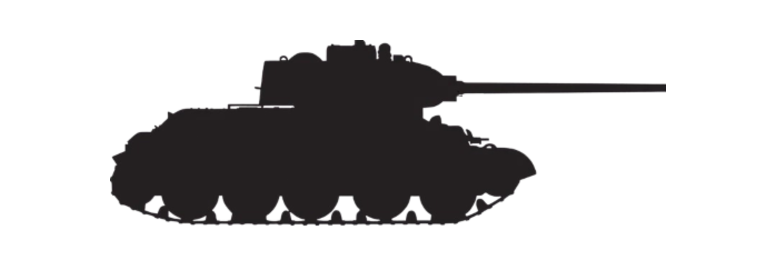
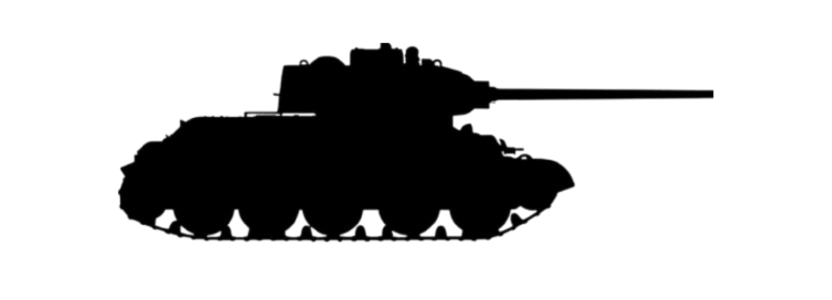
feat - Interface primaria completa, restara apenas incluir os textos verdadeiros substituindo o lorem-ipsum. Também foi adicionado mais classe no style.css

Changed region(s): [[0.1237, 0.1429, 0.866, 0.8]]

diff --git a/style.css b/style.css
@@ -6,6 +6,7 @@
     /* Cores de Fundo (Mapas) */
     --fundo-base: #858B74;
     --fundo-base-marrom: #514029;
+    --verde-caqui-escuro: #6D735D;
 
     
     /* Painéis e Elementos Metálicos */
@@ -31,7 +32,7 @@
 }
 
 body{
-    background-image: url("WT\ -\ Artes/WT\ - BG/BG3.png");
+    background-image: url("WT - Artes/WT - BG/BG3.png");
     font-family: "Arial",sans-serif;
 
     display:flex;
@@ -40,6 +41,7 @@ body{
     align-items: center; /* Centraliza a logo e o painel no meio da tela */
 
     padding: 50px;
+
 }
 
 /*==================================================
@@ -65,7 +67,7 @@ body{
 
 .logo-img{
     width: 100%; /*A principio ela ocupa todo o espaço disponivel*/
-    max-width: 200px; /*Trava de segurança para altura, para que não passe deste valor*/ 
+    max-width: 500px; /*Trava de segurança para altura, para que não passe deste valor*/ 
     height:auto; /*Isso mantem a imagem proporcional*/
 }
 
@@ -73,7 +75,7 @@ body{
     position: relative;
     
     /* Criando o efeito de metal com um gradiente linear */
-    background: linear-gradient(135deg, var(--metal-cinza-claro), var(--metal-cinza-escuro));
+    background: linear-gradient(180deg, var(--metal-cinza-claro), var(--metal-cinza-escuro));
     
     padding: 15px 40px;
     border-radius: 8px; /* Cantos levemente arredondados */
@@ -94,7 +96,7 @@ body{
    ================================================== */
 
 .main-panel{
-    background-color: var(--fundo-base-marrom);
+    background-color: var(--metal-chumbo);
     border-radius: 15px;
     padding: 40px;
 
@@ -147,5 +149,179 @@ line-height: 1.6;
 margin-bottom: 15px;
 
 text-align: justify;
+text-indent: 30px;
 
+}
+
+/* ==================================================
+   6. SEÇÃO DE CARTAS (Nações)
+   ================================================== */
+
+.tank-section{
+    margin-top: 30px;
+    
+}
+
+/* Classe utilitária: aproveita o estilo do .section-subtitle, 
+   mas força a centralização para este título específico */
+.center-text{
+    text-align: center;
+    margin-bottom: 25px;
+}
+
+.cards-container{
+    display: flex; /*Transforma as caixas em uma linha flexivel*/
+    justify-content: space-between; /*Distribui o espaço vazio entre as cartas*/
+    gap: 20px; /*Deixa um vão de 20px entre as cartas.*/
+
+}
+
+.nation-card{
+    /* O flex: 1 faz com que as 3 cartas dividam o espaço igualmente (33.3% cada) */
+    flex: 1;
+ 
+    border: 3px solid var(--metal-cinza-claro);
+    border-radius: 8px;
+
+    padding: 15px;
+    min-height: 280px; /* Uma altura temporária apenas para você enxergar as caixas */
+
+    /* Efeito de sombra pesada padrão da sua UI */
+    box-shadow: 4px 4px 10px var(--sombra-intensa);
+
+    display: flex;
+    flex-direction: column; /* Empilha os itens DENTRO da carta */
+    align-items: center; /* Centraliza tudo DENTRO da carta */
+
+    /*Isso é para que quando transformei as divs em referencias para outro lugar, a caixa inteira dos card-select não fique sublinhada em azul*/
+    
+    text-decoration: none; /* Remove o sublinhado padrão dos links */
+    color: inherit; /* Garante que as cores de texto que configuramos antes sejam respeitadas */
+
+    transition: all 0.4s cubic-bezier(0.25, 1, 0.5, 1);
+}
+
+.nation-title {
+    color: var(--dourado-titulos);
+    font-size: 22px;
+    letter-spacing: 2px;
+    text-shadow: 2px 2px 4px var(--metal-chumbo);
+    
+    /* Garante que o título fique sempre no topo da carta, abrindo espaço embaixo */
+    margin-bottom: auto; 
+    margin-top: 10px;
+}
+
+.card-usa, .card-ger, .card-rus{
+    background-size: cover;
+    background-position: center;
+    background-repeat: no-repeat; /* Evita que a imagem se repita como um mosaico */
+
+    /* Um truque: Adicionamos um degradê escuro por cima da imagem para garantir 
+       que o texto e o tanque não fiquem "apagados" caso a bandeira seja muito clara */
+    background-blend-mode: multiply;
+    background-color: #888; /* Escurece levemente a bandeira. Teste mudar esse valor depois! */
+
+}
+
+.card-usa {
+    background-image: url("WT - Artes/WT - Flags/WT USA Flag.jpg"); 
+}
+
+.card-ger{
+    background-image: url("WT - Artes/WT - Flags/WT GER Flag.jpg");
+}
+
+.card-rus{
+    background-image: url("WT - Artes/WT - Flags/WT RUS Flag.jpg");
+}
+
+.tank-silhueta{
+    filter: brightness(0%);
+
+    width: 90%; /* O tanque vai ocupar quase toda a largura da carta */
+    max-width: 2000px;
+    height: auto;
+
+    margin-top: auto;
+    margin-bottom: auto;
+
+    /* Se os seus tanques forem pretos, uma sombra clara ajuda a destacá-los.
+       Se forem brancos ou cinzas, mude para var(--sombra-intensa) */
+    filter: drop-shadow(0px 0px 8px rgba(255, 255, 255, 0.5));
+}
+
+.card-info-box {
+    /* Usando a cor de fundo mais escura da sua paleta para contrastar */
+    background-color: var(--metal-chumbo); 
+    
+    /* Uma borda fina para emoldurar o texto */
+    border: 2px solid var(--metal-cinza-claro); 
+    border-radius: 4px; /* Cantos levemente arredondados */
+    
+    padding: 10px;
+    width: 100%; /* Faz a caixa ocupar toda a largura interna da carta */
+    
+    /* Isso garante que a caixa fique sempre empurrada para o fundo da carta, 
+       mesmo que o tanque seja um pouco menor */
+    margin-top: auto; 
+    
+    /* Uma sombra interna suave (opcional) para dar profundidade */
+    box-shadow: inset 0px 2px 4px rgba(0, 0, 0, 0.5);
+}
+
+.card-info-box p {
+    color: var(--texto-branco);
+    
+    /* Fonte bem pequena para simular descrições técnicas de veículos */
+    font-size: 11px; 
+    line-height: 1.4;
+    text-align: justify;
+    text-indent: 30px;
+}
+
+/* ==================================================
+   9. ANIMAÇÕES DE INTERAÇÃO (Hover e Focus) / Trecho gerado com IA pelo Gemini - Responsavel pele efeito de transição de escolha dos cards de nações.
+   ================================================== */
+
+/* REGRA 1: Quando o container for focado/sobrevoado, afeta TODOS os cards dentro dele */
+/* O :focus-within garante que o efeito funcione quando você usar a tecla TAB */
+.cards-container:hover .nation-card,
+.cards-container:focus-within .nation-card {
+    /* Deixa em preto e branco e um pouco mais escuro */
+    filter: grayscale(100%) brightness(0.6); 
+    
+    /* Reduz a largura proporcional (de 1 para 0.8) */
+    flex: 0.8; 
+}
+
+/* REGRA 2: A exceção! O card exato que está com o mouse/foco ganha vida e expande */
+.cards-container .nation-card:hover,
+.cards-container .nation-card:focus {
+    /* Devolve a cor original e deixa ligeiramente mais brilhante */
+    filter: grayscale(0%) brightness(1.1); 
+    
+    /* Aumenta a largura proporcional (ele vai "espremer" os outros dois) */
+    flex: 1.4; 
+    
+    /* Dá um pequeno pulo para cima e aumenta a sombra para parecer mais próximo do usuário */
+    transform: translateY(-10px);
+    box-shadow: 0px 15px 30px rgba(0, 0, 0, 0.9);
+    
+    /* O outline: none remove aquela caixa preta/branca padrão do navegador ao usar o TAB */
+    outline: none; 
+}
+
+/* REGRA 3: Bordas personalizadas baseadas no seu Guia de Cores WT! */
+/* Quando o card específico for ativado, ele troca a cor da borda de cinza para a cor da nação */
+.card-usa:hover, .card-usa:focus {
+    border-color: #1A3668; /* Azul USA da sua paleta */
+}
+
+.card-ger:hover, .card-ger:focus {
+    border-color: #F0F2F5; /* Branco off-white para destacar a Alemanha */
+}
+
+.card-rus:hover, .card-rus:focus {
+    border-color: #A32020; /* Vermelho RUS (exatamente como na sua imagem de referência) */
 }

diff --git a/index.html b/index.html
@@ -44,6 +44,49 @@
                 </p>
             </div>
 
+        <!--AQUI FICAM AS CAIXAS DE SELEÇÃO DAS NAÇÕES.-->
+
+            <div class="tank-selection">
+                <h2 class="section-subtitle center-text">OS 5 TANQUES MAIS ICÔNICOS DAS 3 NAÇÕES PRINCIPAIS</h2>
+
+                <div class="cards-container">
+
+                    <!--USA-->
+                    <a href="#EUA.index" class="nation-card card-usa">
+                        <h3 class="nation-title">EUA</h3>
+                        <img class="tank-silhueta" src="WT - Artes/WT - Shadows/WT Shadows Remake/WT USA Shadow Sherman.png" alt="Silhueta da sombra de um tanque Sherman">
+
+                        <!-- NOVA CAIXA DE TEXTO (EUA) -->
+                        <div class="card-info-box">
+                            <p>Lorem ipsum dolor sit amet, consectetuer adipiscing elit, sed do eiusmod tempor incididunt ut labore et dolore magna aliqua.</p>
+                        </div>
+
+                    </a>
+
+                     <!--GER-->
+                    <a href="#GER.index" class="nation-card card-ger">
+                        <h3 class="nation-title">ALEMANHA</h3>
+                        <img class="tank-silhueta" src="WT - Artes/WT - Shadows/WT Shadows Remake/WT HER Shadow Tiger.png" alt="Silhueta da sombra de um tanque Tiger-H">
+
+                        <!-- NOVA CAIXA DE TEXTO (GER) -->
+                        <div class="card-info-box">
+                            <p>Lorem ipsum dolor sit amet, consectetuer adipiscing elit, sed do eiusmod tempor incididunt ut labore et dolore magna aliqua.</p>
+                        </div>
+                    </a>
+
+                     <!--RUS-->
+                    <a href="#RUS.index" class="nation-card card-rus">
+                        <h3 class="nation-title">RUS</h3>
+                        <img class="tank-silhueta" src="WT - Artes/WT - Shadows/WT Shadows Remake/WT RUS Shadow T-34.png" alt="Silhueta da sombra de um tanque T-34 85">
+
+                        <!-- NOVA CAIXA DE TEXTO (RUS) -->
+                        <div class="card-info-box">
+                            <p>Lorem ipsum dolor sit amet, consectetuer adipiscing elit, sed do eiusmod tempor incididunt ut labore et dolore magna aliqua.</p>
+                        </div>
+                    </a>
+
+                </div>
+            </div>
             
         </section>
     </main>
